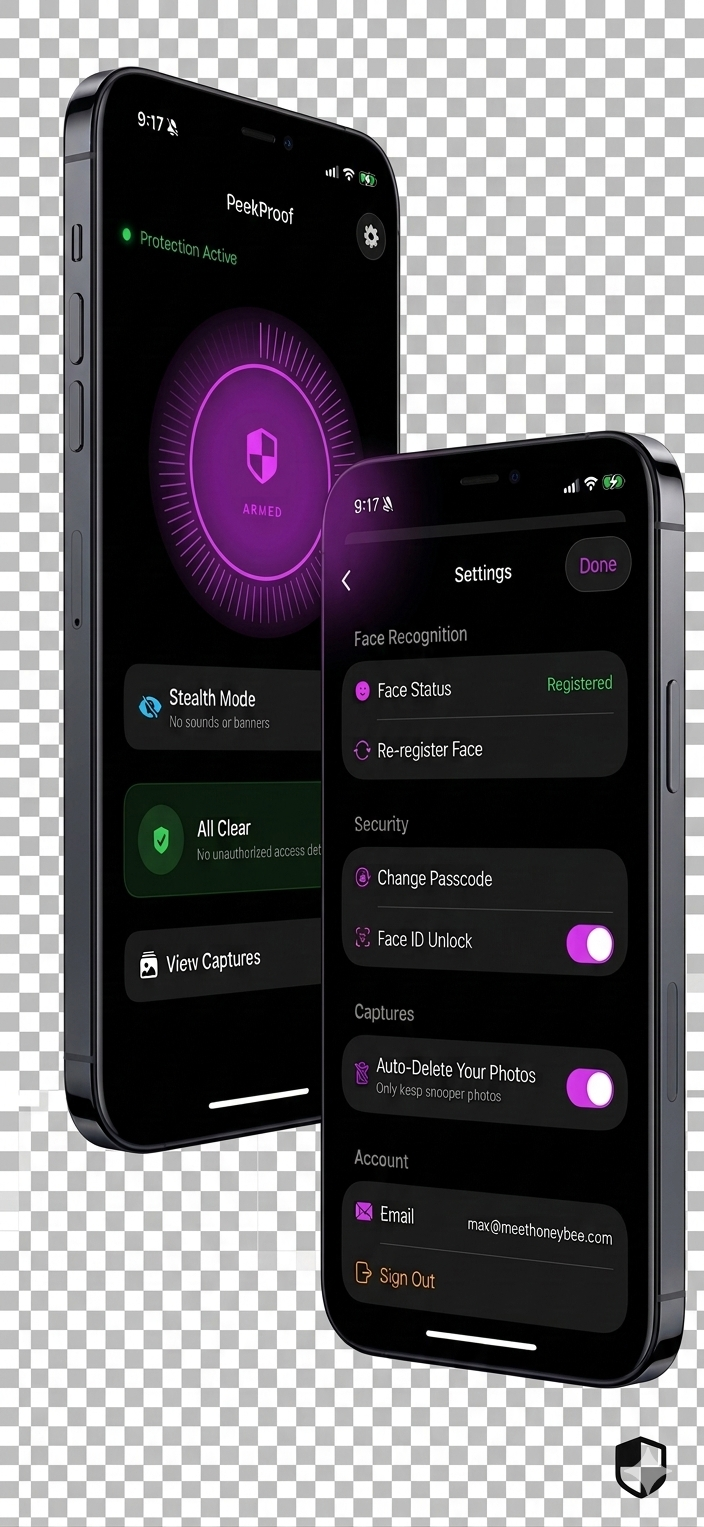
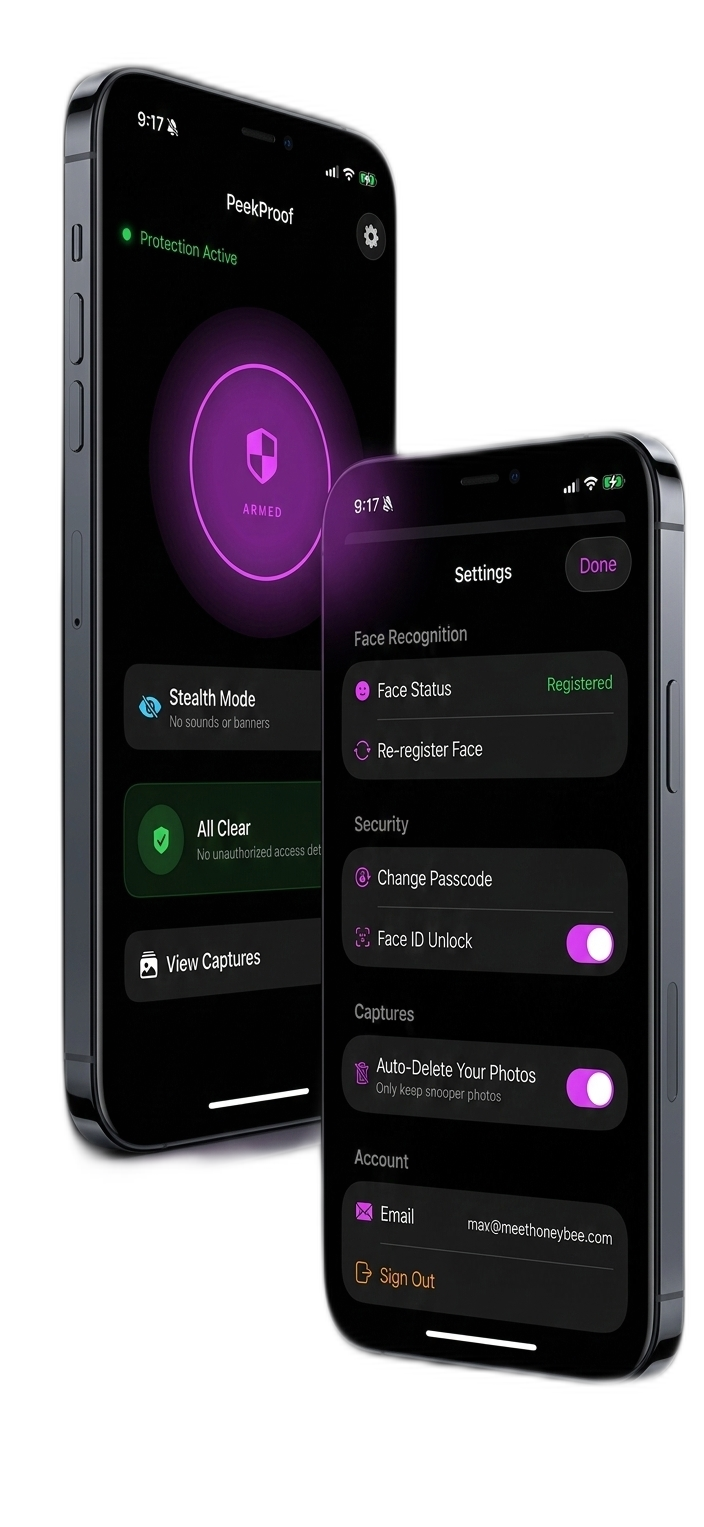
Swap layout: phones left, text right; use transparent hero image

diff --git a/app/page.tsx b/app/page.tsx
@@ -13,8 +13,22 @@ export default function Home() {
         <div className="absolute top-1/2 left-1/2 -translate-x-1/2 -translate-y-1/2 w-[600px] h-[600px] bg-purple-500/10 rounded-full blur-[120px]" />
         
         <div className="relative z-10 max-w-7xl mx-auto px-6 py-20 grid lg:grid-cols-2 gap-12 items-center">
-          {/* Left - Text Content */}
-          <div className="space-y-8">
+          {/* Left - Phone Mockup */}
+          <div className="relative flex justify-center lg:justify-start order-2 lg:order-1">
+            <div className="relative w-full max-w-lg">
+              <Image
+                src="/hero-phones.png"
+                alt="PeekProof App Screenshots"
+                width={600}
+                height={700}
+                className="w-full h-auto"
+                priority
+              />
+            </div>
+          </div>
+
+          {/* Right - Text Content */}
+          <div className="space-y-8 order-1 lg:order-2">
             {/* Logo + Name */}
             <div className="flex items-center gap-3">
               <div className="w-12 h-12 rounded-xl overflow-hidden bg-brand-dark border border-purple-500/20">
@@ -68,20 +82,6 @@ export default function Home() {
                 </svg>
                 Video
               </Link>
-            </div>
-          </div>
-
-          {/* Right - Phone Mockup */}
-          <div className="relative flex justify-center lg:justify-end">
-            <div className="relative w-full max-w-lg">
-              <Image
-                src="/hero-phones.png"
-                alt="PeekProof App Screenshots"
-                width={600}
-                height={700}
-                className="w-full h-auto"
-                priority
-              />
             </div>
           </div>
         </div>
